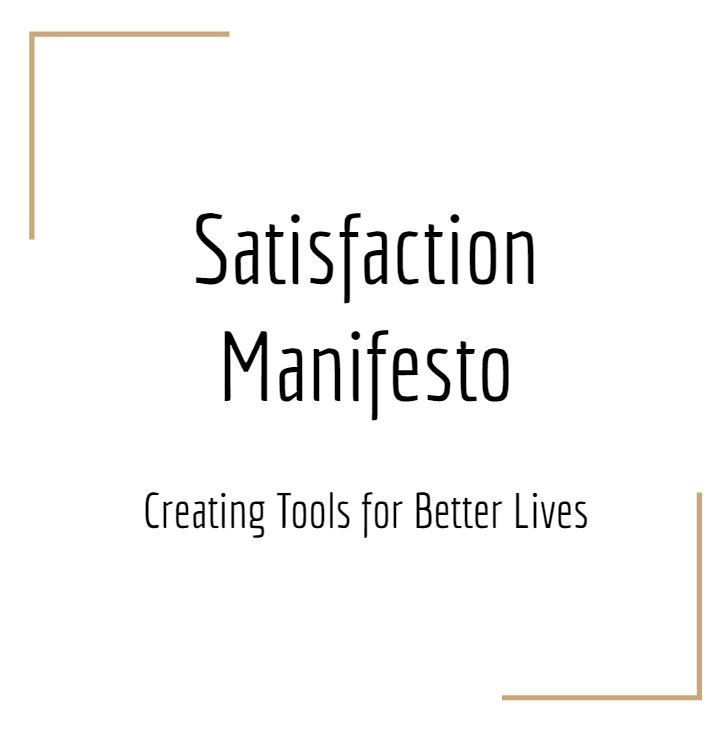
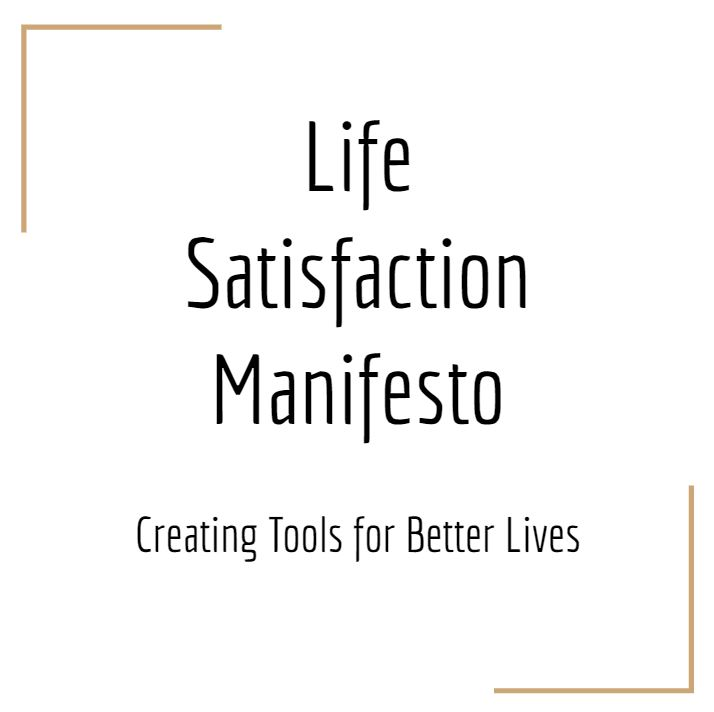
Updates

diff --git a/strategic-futuristic-relator-learner-ideation.html b/strategic-futuristic-relator-learner-ideation.html
@@ -14,7 +14,7 @@
     <script async custom-element="amp-iframe" src="https://cdn.ampproject.org/v0/amp-iframe-0.1.js"></script>
     <script async custom-element="amp-fx-collection" src="https://cdn.ampproject.org/v0/amp-fx-collection-0.1.js"></script>
     <title>I Am Strategic, Futuristic, Relator, Ideation, Learner</title>
-    <link rel="canonical" href="/strategic-futuristic-relator-learner-ideation.html">
+    <link rel="canonical" href="https://ReasonScore.com/strategic-futuristic-relator-learner-ideation.html">
     <meta name="viewport" content="width=device-width,minimum-scale=1,initial-scale=1">
     <script type="application/ld+json">
       {
@@ -137,7 +137,6 @@ a {
   padding: 0 15px;
   margin: auto;
   max-width: 1140px;
-  width: 100%;
 }
 
 h1, h2 {
@@ -291,6 +290,12 @@ You love to learn. The subject matter that interests you most will be determined
 You are fascinated by ideas. What is an idea? An idea is a concept, the best explanation of the most events. You are delighted when you discover beneath the complex surface an elegantly simple concept to explain why things are the way they are. An idea is a connection. Yours is the kind of mind that is always looking for connections, and so you are intrigued when seemingly disparate phenomena can be linked by an obscure connection. An idea is a new perspective on familiar challenges. You revel in taking the world we all know and turning it around so we can view it from a strange but strangely enlightening angle. You love all these ideas because they are profound, because they are novel, because they are clarifying, because they are contrary, because they are bizarre. For all these reasons you derive a jolt of energy whenever a new idea occurs to you. Others may label you creative or original or conceptual or even smart. Perhaps you are all of these. Who can be sure? What you are sure of is that ideas are thrilling. And on most days this is enough.
 </p>
 
+    <amp-iframe width=600 height=140
+            layout="responsive"
+            sandbox="allow-scripts allow-same-origin allow-modals allow-popups allow-forms"
+            resizable
+            src="disqus#/strategic-futuristic-relator-learner-ideation.html">
+</amp-iframe>
 </div>
     <br>
     <br>

diff --git a/dallas-givecamp-2014-kids-u-codeitforward.html b/dallas-givecamp-2014-kids-u-codeitforward.html
@@ -14,7 +14,7 @@
     <script async custom-element="amp-iframe" src="https://cdn.ampproject.org/v0/amp-iframe-0.1.js"></script>
     <script async custom-element="amp-fx-collection" src="https://cdn.ampproject.org/v0/amp-fx-collection-0.1.js"></script>
     <title>Dallas GiveCamp 2014 Kids-U</title>
-    <link rel="canonical" href="/dallas-givecamp-2014-kids-u-codeitforward.html">
+    <link rel="canonical" href="https://ReasonScore.com/dallas-givecamp-2014-kids-u-codeitforward.html">
     <meta name="viewport" content="width=device-width,minimum-scale=1,initial-scale=1">
     <script type="application/ld+json">
       {
@@ -137,7 +137,6 @@ a {
   padding: 0 15px;
   margin: auto;
   max-width: 1140px;
-  width: 100%;
 }
 
 h1, h2 {
@@ -273,6 +272,12 @@ img {
 <p>Since most of the developers were familiar with .Net and this website was to be separate from their main website we decided to use ASP.net MVC 5 and MS SQL server. Everleap had donated hosting for the life of the charity which included the website and the SQL server.</p>
 <p>We made a site where they could put in their daily data and created excel documents that could generate the reports and format the data to meet the requirements of the government agencies.</p>
 
+    <amp-iframe width=600 height=140
+            layout="responsive"
+            sandbox="allow-scripts allow-same-origin allow-modals allow-popups allow-forms"
+            resizable
+            src="disqus#/dallas-givecamp-2014-kids-u-codeitforward.html">
+</amp-iframe>
 </div>
     <br>
     <br>

diff --git a/the-history-of-rhetoric.html b/the-history-of-rhetoric.html
@@ -14,7 +14,7 @@
     <script async custom-element="amp-iframe" src="https://cdn.ampproject.org/v0/amp-iframe-0.1.js"></script>
     <script async custom-element="amp-fx-collection" src="https://cdn.ampproject.org/v0/amp-fx-collection-0.1.js"></script>
     <title>The History of Rhetoric</title>
-    <link rel="canonical" href="/the-history-of-rhetoric.html">
+    <link rel="canonical" href="https://ReasonScore.com/the-history-of-rhetoric.html">
     <meta name="viewport" content="width=device-width,minimum-scale=1,initial-scale=1">
     <script type="application/ld+json">
       {
@@ -137,7 +137,6 @@ a {
   padding: 0 15px;
   margin: auto;
   max-width: 1140px;
-  width: 100%;
 }
 
 h1, h2 {
@@ -275,6 +274,12 @@ img {
 <p>Today most people would agree that you must be good at both discerning the truth and persuading others of it. I believe that there is much more training available on how to persuade than to discern truth. Are we a group of people eloquently persuading others of false truths? I think it’s time to learn from the past and look up some Plato and Aristotle.</p>
 <p>Have you received more training in using persuasion or finding truth?</p>
 
+    <amp-iframe width=600 height=140
+            layout="responsive"
+            sandbox="allow-scripts allow-same-origin allow-modals allow-popups allow-forms"
+            resizable
+            src="disqus#/the-history-of-rhetoric.html">
+</amp-iframe>
 </div>
     <br>
     <br>

diff --git a/disqus/index.html b/disqus/index.html
@@ -1,0 +1,43 @@
+<div id="disqus_thread"></div>
+<script>
+window.addEventListener('message', receiveMessage, false);
+function receiveMessage(event)
+{
+    if (event.data) {
+        var msg;
+        try {
+            msg = JSON.parse(event.data);
+        } catch (err) {
+            // Do nothing
+        }
+        if (!msg)
+            return false;
+
+        if (msg.name === 'resize') {
+            window.parent.postMessage({
+              sentinel: 'amp',
+              type: 'embed-size',
+              height: msg.data.height
+            }, '*');
+        }
+    }
+}
+</script>
+<script>
+    /**
+     *  RECOMMENDED CONFIGURATION VARIABLES: EDIT AND UNCOMMENT THE SECTION BELOW TO INSERT DYNAMIC VALUES FROM YOUR PLATFORM OR CMS.
+     *  LEARN WHY DEFINING THESE VARIABLES IS IMPORTANT: https://disqus.com/admin/universalcode/#configuration-variables
+     */
+    var disqus_config = function () {
+        this.page.url = window.location;  // Replace PAGE_URL with your page's canonical URL variable
+        this.page.identifier = window.location.hash; // Replace PAGE_IDENTIFIER with your page's unique identifier variable
+    };
+    (function() {  // DON'T EDIT BELOW THIS LINE
+        var d = document, s = d.createElement('script');
+
+        s.src = '//EXAMPLE.disqus.com/embed.js';
+
+        s.setAttribute('data-timestamp', +new Date());
+        (d.head || d.body).appendChild(s);
+    })();
+</script>

diff --git a/manifesto/index.html b/manifesto/index.html
@@ -14,7 +14,7 @@
     <script async custom-element="amp-iframe" src="https://cdn.ampproject.org/v0/amp-iframe-0.1.js"></script>
     <script async custom-element="amp-fx-collection" src="https://cdn.ampproject.org/v0/amp-fx-collection-0.1.js"></script>
     <title>Satisfaction manifesto</title>
-    <link rel="canonical" href="/manifesto/">
+    <link rel="canonical" href="https://ReasonScore.com/manifesto/">
     <meta name="viewport" content="width=device-width,minimum-scale=1,initial-scale=1">
     <script type="application/ld+json">
       {
@@ -137,7 +137,6 @@ a {
   padding: 0 15px;
   margin: auto;
   max-width: 1140px;
-  width: 100%;
 }
 
 h1, h2 {
@@ -262,7 +261,7 @@ img {
     </amp-sidebar>
     <div class="content">
     <div style="max-width: 400px; margin: auto;">
-        <amp-img src="/img/blog/manifestoallangles.jpg" alt="Satisfaction manifesto" height="1024" width="1024" layout="responsive" ></amp-img>
+        <amp-img src="/img/blog/manifesto.jpg" alt="Satisfaction manifesto" height="1024" width="1024" layout="responsive" ></amp-img>
     </div>
     Bentley Davis
     -
@@ -290,6 +289,12 @@ img {
 
 
 
+    <amp-iframe width=600 height=140
+            layout="responsive"
+            sandbox="allow-scripts allow-same-origin allow-modals allow-popups allow-forms"
+            resizable
+            src="disqus#/manifesto/">
+</amp-iframe>
 </div>
     <br>
     <br>

diff --git a/all-angles.html b/all-angles.html
@@ -14,7 +14,7 @@
     <script async custom-element="amp-iframe" src="https://cdn.ampproject.org/v0/amp-iframe-0.1.js"></script>
     <script async custom-element="amp-fx-collection" src="https://cdn.ampproject.org/v0/amp-fx-collection-0.1.js"></script>
     <title>All Angles</title>
-    <link rel="canonical" href="/all-angles.html">
+    <link rel="canonical" href="https://ReasonScore.com/all-angles.html">
     <meta name="viewport" content="width=device-width,minimum-scale=1,initial-scale=1">
     <script type="application/ld+json">
       {
@@ -137,7 +137,6 @@ a {
   padding: 0 15px;
   margin: auto;
   max-width: 1140px;
-  width: 100%;
 }
 
 h1, h2 {
@@ -277,6 +276,12 @@ img {
 <p>I did find a niche that I could fill. Although there are a lot of online tools I couldn’t find any that help make decisions the way I do. I think it’s really how everyone makes decisions subconsciously. I have created <a href="http://bentleydavis.com/tag/truth-scale/" target="_blank">Truth Scale</a> as an experiment.</p>
 <p>I will also continue to blog about how to debate more productively.</p>
 
+    <amp-iframe width=600 height=140
+            layout="responsive"
+            sandbox="allow-scripts allow-same-origin allow-modals allow-popups allow-forms"
+            resizable
+            src="disqus#/all-angles.html">
+</amp-iframe>
 </div>
     <br>
     <br>

diff --git a/blog/index.html b/blog/index.html
@@ -14,7 +14,7 @@
     <script async custom-element="amp-iframe" src="https://cdn.ampproject.org/v0/amp-iframe-0.1.js"></script>
     <script async custom-element="amp-fx-collection" src="https://cdn.ampproject.org/v0/amp-fx-collection-0.1.js"></script>
     <title>Reason Score Blog</title>
-    <link rel="canonical" href="/blog/">
+    <link rel="canonical" href="https://ReasonScore.com/blog/">
     <meta name="viewport" content="width=device-width,minimum-scale=1,initial-scale=1">
     <script type="application/ld+json">
       {
@@ -137,7 +137,6 @@ a {
   padding: 0 15px;
   margin: auto;
   max-width: 1140px;
-  width: 100%;
 }
 
 h1, h2 {
@@ -355,7 +354,7 @@ img {
                 </div>
             </a><a href="/manifesto/">
                 <div class="card">
-                    <amp-img class="card-img-top" src="/img/blog/manifestoallangles.jpg" alt="Satisfaction manifesto" height="1024" width="1024" layout="responsive"></amp-img>
+                    <amp-img class="card-img-top" src="/img/blog/manifesto.jpg" alt="Satisfaction manifesto" height="1024" width="1024" layout="responsive"></amp-img>
                     <div class="card-body">
 
                         <h5 class="card-title">Satisfaction manifesto</h5>

diff --git a/free-experts-for-your-bootstrap-startup.html b/free-experts-for-your-bootstrap-startup.html
@@ -14,7 +14,7 @@
     <script async custom-element="amp-iframe" src="https://cdn.ampproject.org/v0/amp-iframe-0.1.js"></script>
     <script async custom-element="amp-fx-collection" src="https://cdn.ampproject.org/v0/amp-fx-collection-0.1.js"></script>
     <title>Free Experts for your Bootstrap Startup</title>
-    <link rel="canonical" href="/free-experts-for-your-bootstrap-startup.html">
+    <link rel="canonical" href="https://ReasonScore.com/free-experts-for-your-bootstrap-startup.html">
     <meta name="viewport" content="width=device-width,minimum-scale=1,initial-scale=1">
     <script type="application/ld+json">
       {
@@ -137,7 +137,6 @@ a {
   padding: 0 15px;
   margin: auto;
   max-width: 1140px;
-  width: 100%;
 }
 
 h1, h2 {
@@ -292,6 +291,12 @@ img {
     <li>Accountability for tasks</li>
 </ul>
 
+    <amp-iframe width=600 height=140
+            layout="responsive"
+            sandbox="allow-scripts allow-same-origin allow-modals allow-popups allow-forms"
+            resizable
+            src="disqus#/free-experts-for-your-bootstrap-startup.html">
+</amp-iframe>
 </div>
     <br>
     <br>

diff --git a/why-i-quit-my-job-and-whats-next.html b/why-i-quit-my-job-and-whats-next.html
@@ -14,7 +14,7 @@
     <script async custom-element="amp-iframe" src="https://cdn.ampproject.org/v0/amp-iframe-0.1.js"></script>
     <script async custom-element="amp-fx-collection" src="https://cdn.ampproject.org/v0/amp-fx-collection-0.1.js"></script>
     <title>Why I Quit My Job</title>
-    <link rel="canonical" href="/why-i-quit-my-job-and-whats-next.html">
+    <link rel="canonical" href="https://ReasonScore.com/why-i-quit-my-job-and-whats-next.html">
     <meta name="viewport" content="width=device-width,minimum-scale=1,initial-scale=1">
     <script type="application/ld+json">
       {
@@ -137,7 +137,6 @@ a {
   padding: 0 15px;
   margin: auto;
   max-width: 1140px;
-  width: 100%;
 }
 
 h1, h2 {
@@ -289,6 +288,12 @@ img {
 </p>
 <p>Have you every taken the leap into the unknown when it wasn’t necessary?</p>
 
+    <amp-iframe width=600 height=140
+            layout="responsive"
+            sandbox="allow-scripts allow-same-origin allow-modals allow-popups allow-forms"
+            resizable
+            src="disqus#/why-i-quit-my-job-and-whats-next.html">
+</amp-iframe>
 </div>
     <br>
     <br>

diff --git a/maverick-leader.html b/maverick-leader.html
@@ -14,7 +14,7 @@
     <script async custom-element="amp-iframe" src="https://cdn.ampproject.org/v0/amp-iframe-0.1.js"></script>
     <script async custom-element="amp-fx-collection" src="https://cdn.ampproject.org/v0/amp-fx-collection-0.1.js"></script>
     <title>I am a Maverick leader</title>
-    <link rel="canonical" href="/maverick-leader.html">
+    <link rel="canonical" href="https://ReasonScore.com/maverick-leader.html">
     <meta name="viewport" content="width=device-width,minimum-scale=1,initial-scale=1">
     <script type="application/ld+json">
       {
@@ -137,7 +137,6 @@ a {
   padding: 0 15px;
   margin: auto;
   max-width: 1140px;
-  width: 100%;
 }
 
 h1, h2 {
@@ -319,6 +318,12 @@ metaphors keep their listeners captivated.
 
 What do you think? Does this sound like me?
 
+    <amp-iframe width=600 height=140
+            layout="responsive"
+            sandbox="allow-scripts allow-same-origin allow-modals allow-popups allow-forms"
+            resizable
+            src="disqus#/maverick-leader.html">
+</amp-iframe>
 </div>
     <br>
     <br>

diff --git a/truth-by-any-other-name.html b/truth-by-any-other-name.html
@@ -14,7 +14,7 @@
     <script async custom-element="amp-iframe" src="https://cdn.ampproject.org/v0/amp-iframe-0.1.js"></script>
     <script async custom-element="amp-fx-collection" src="https://cdn.ampproject.org/v0/amp-fx-collection-0.1.js"></script>
     <title>Truth by Any Other Name</title>
-    <link rel="canonical" href="/truth-by-any-other-name.html">
+    <link rel="canonical" href="https://ReasonScore.com/truth-by-any-other-name.html">
     <meta name="viewport" content="width=device-width,minimum-scale=1,initial-scale=1">
     <script type="application/ld+json">
       {
@@ -137,7 +137,6 @@ a {
   padding: 0 15px;
   margin: auto;
   max-width: 1140px;
-  width: 100%;
 }
 
 h1, h2 {
@@ -279,6 +278,12 @@ img {
 <p>&nbsp;</p>
 <p>I appreciate your participation.</p>
 
+    <amp-iframe width=600 height=140
+            layout="responsive"
+            sandbox="allow-scripts allow-same-origin allow-modals allow-popups allow-forms"
+            resizable
+            src="disqus#/truth-by-any-other-name.html">
+</amp-iframe>
 </div>
     <br>
     <br>

diff --git a/dep-civic-hackathon-ii.html b/dep-civic-hackathon-ii.html
@@ -14,7 +14,7 @@
     <script async custom-element="amp-iframe" src="https://cdn.ampproject.org/v0/amp-iframe-0.1.js"></script>
     <script async custom-element="amp-fx-collection" src="https://cdn.ampproject.org/v0/amp-fx-collection-0.1.js"></script>
     <title>Civic Hackathon</title>
-    <link rel="canonical" href="/dep-civic-hackathon-ii.html">
+    <link rel="canonical" href="https://ReasonScore.com/dep-civic-hackathon-ii.html">
     <meta name="viewport" content="width=device-width,minimum-scale=1,initial-scale=1">
     <script type="application/ld+json">
       {
@@ -137,7 +137,6 @@ a {
   padding: 0 15px;
   margin: auto;
   max-width: 1140px;
-  width: 100%;
 }
 
 h1, h2 {
@@ -312,6 +311,12 @@ img {
         width="550" height="400" frameborder="0"></iframe>
 </p>
 
+    <amp-iframe width=600 height=140
+            layout="responsive"
+            sandbox="allow-scripts allow-same-origin allow-modals allow-popups allow-forms"
+            resizable
+            src="disqus#/dep-civic-hackathon-ii.html">
+</amp-iframe>
 </div>
     <br>
     <br>
